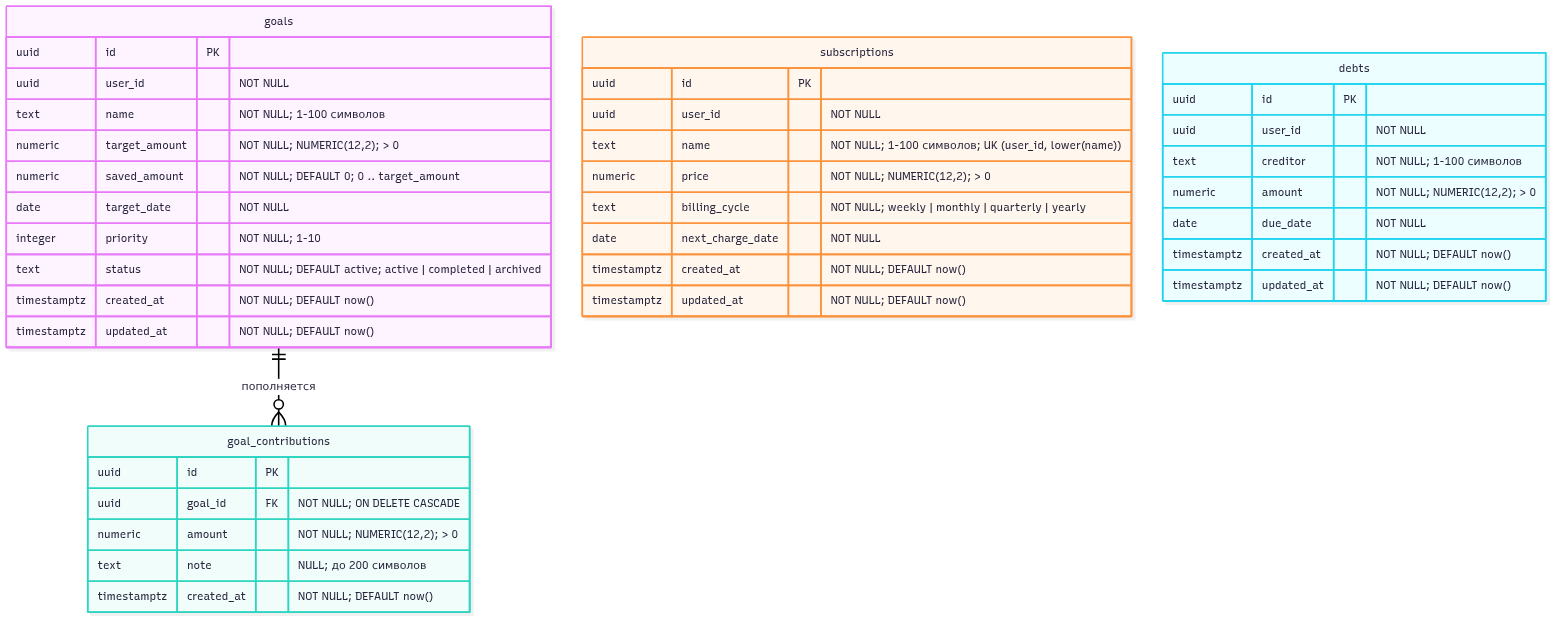
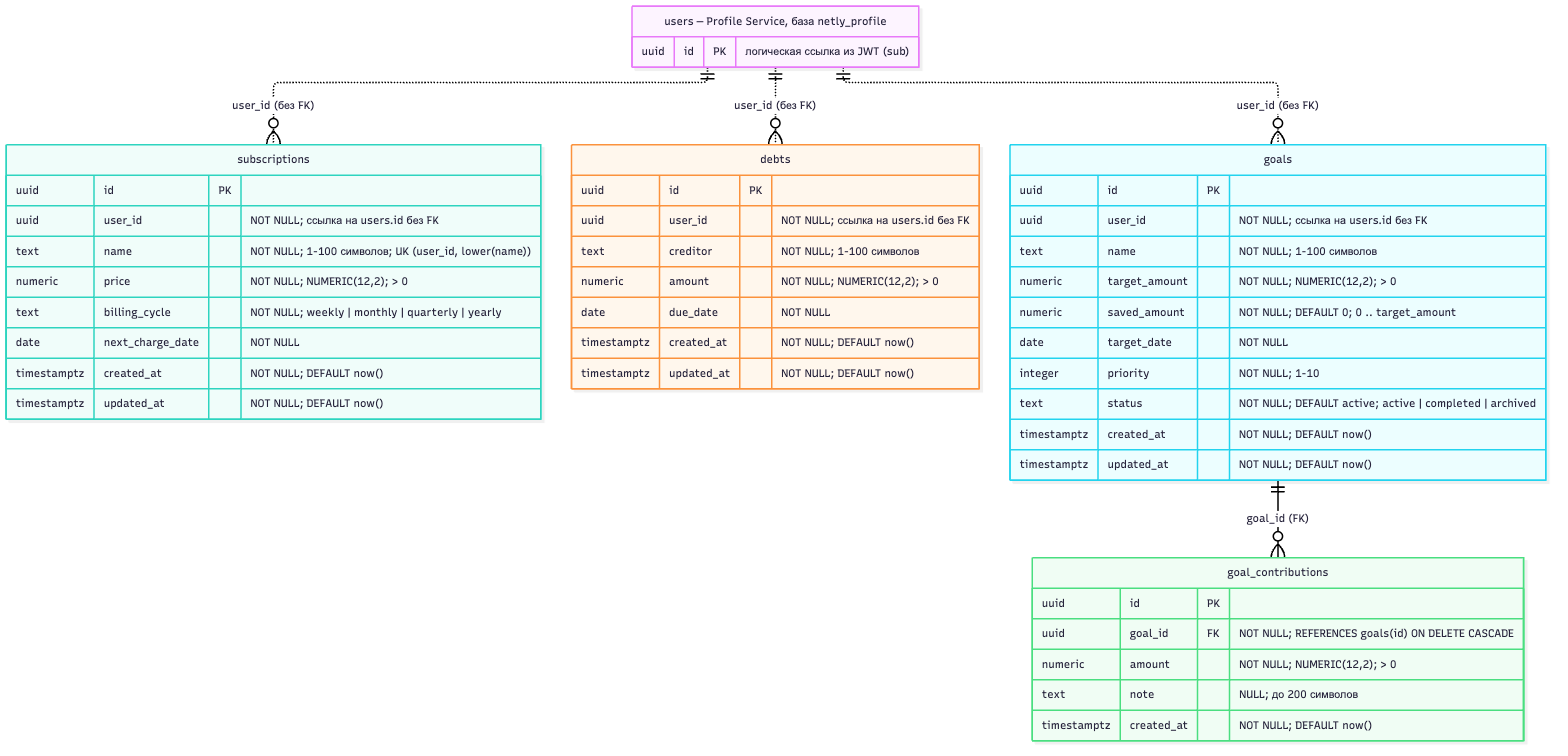
docs(budget): show user references in the ER diagram
Add users from Profile Service as an external entity and draw its links
to subscriptions, debts and goals as dashed lines: user_id is a logical
reference from the signed JWT, with no foreign key across databases.
List every relation and how it is enforced in docs/database.md, and note
the cross-service reference in the README.

Changed region(s): [[0.0, 0.0, 1.0, 0.6374], [0.6562, 0.6677, 0.9688, 1.0], [0.0625, 0.607, 0.3125, 1.0]]

diff --git a/docs/database.md b/docs/database.md
@@ -10,11 +10,18 @@
 
 ```mermaid
 erDiagram
-    goals ||--o{ goal_contributions : "пополняется"
+    users ||..o{ subscriptions : "user_id (без FK)"
+    users ||..o{ debts : "user_id (без FK)"
+    users ||..o{ goals : "user_id (без FK)"
+    goals ||--o{ goal_contributions : "goal_id (FK)"
+
+    users["users — Profile Service, база netly_profile"] {
+        uuid id PK "логическая ссылка из JWT (sub)"
+    }
 
     subscriptions {
         uuid id PK
-        uuid user_id "NOT NULL"
+        uuid user_id "NOT NULL; ссылка на users.id без FK"
         text name "NOT NULL; 1-100 символов; UK (user_id, lower(name))"
         numeric price "NOT NULL; NUMERIC(12,2); > 0"
         text billing_cycle "NOT NULL; weekly | monthly | quarterly | yearly"
@@ -25,7 +32,7 @@ erDiagram
 
     debts {
         uuid id PK
-        uuid user_id "NOT NULL"
+        uuid user_id "NOT NULL; ссылка на users.id без FK"
         text creditor "NOT NULL; 1-100 символов"
         numeric amount "NOT NULL; NUMERIC(12,2); > 0"
         date due_date "NOT NULL"
@@ -35,7 +42,7 @@ erDiagram
 
     goals {
         uuid id PK
-        uuid user_id "NOT NULL"
+        uuid user_id "NOT NULL; ссылка на users.id без FK"
         text name "NOT NULL; 1-100 символов"
         numeric target_amount "NOT NULL; NUMERIC(12,2); > 0"
         numeric saved_amount "NOT NULL; DEFAULT 0; 0 .. target_amount"
@@ -48,16 +55,25 @@ erDiagram
 
     goal_contributions {
         uuid id PK
-        uuid goal_id FK "NOT NULL; ON DELETE CASCADE"
+        uuid goal_id FK "NOT NULL; REFERENCES goals(id) ON DELETE CASCADE"
         numeric amount "NOT NULL; NUMERIC(12,2); > 0"
         text note "NULL; до 200 символов"
         timestamptz created_at "NOT NULL; DEFAULT now()"
     }
 ```
 
-Связь `goals` → `goal_contributions` — один ко многим: у цели может быть сколько угодно пополнений, каждое пополнение принадлежит ровно одной цели. Остальные таблицы связаны только через `user_id`.
+Связь `goals` → `goal_contributions` — один ко многим: у цели может быть сколько угодно пополнений, каждое пополнение принадлежит ровно одной цели. Это единственный внешний ключ схемы.
 
-`user_id` — идентификатор пользователя из JWT. Сами пользователи хранятся в базе Profile Service (`netly_profile`), а у каждого микросервиса своя база, поэтому внешнего ключа на пользователя нет и быть не может: ссылочную целостность между сервисами обеспечивает подпись токена, а не СУБД.
+`user_id` в `subscriptions`, `debts` и `goals` ссылается на пользователя. Таблица `users` принадлежит Profile Service и хранится в его базе `netly_profile`, а у каждого микросервиса своя база, поэтому на диаграмме `users` — внешняя сущность, а связи с ней нарисованы пунктиром. Внешнего ключа на пользователя нет и быть не может: PostgreSQL не ссылается на таблицы другой базы. `user_id` берётся из поля `sub` подписанного JWT, так что ссылочную целостность между сервисами обеспечивает подпись токена, а не СУБД.
+
+## Связи между таблицами
+
+| Ссылка                        | На что ссылается             | Тип         | Как обеспечивается                                              |
+| ----------------------------- | ---------------------------- | ----------- | --------------------------------------------------------------- |
+| `goal_contributions.goal_id`  | `goals.id`                   | 1:N, FK     | Внешний ключ `goal_contributions_goal_id_fkey`, ON DELETE CASCADE |
+| `subscriptions.user_id`       | `users.id` (Profile Service) | 1:N, без FK | Значение из подписанного JWT; фильтр `user_id` во всех запросах |
+| `debts.user_id`               | `users.id` (Profile Service) | 1:N, без FK | То же                                                           |
+| `goals.user_id`               | `users.id` (Profile Service) | 1:N, без FK | То же                                                           |
 
 ## Таблицы
 

diff --git a/README.md b/README.md
@@ -145,7 +145,7 @@ The contract is valid. The three remaining warnings are expected: no license, a 
 
 ### Database
 
-Budget Service keeps its data in the `netly_budget` PostgreSQL database: `subscriptions`, `debts`, `goals` and `goal_contributions`, with `goals` 1:N `goal_contributions`.
+Budget Service keeps its data in the `netly_budget` PostgreSQL database: `subscriptions`, `debts`, `goals` and `goal_contributions`, with `goals` 1:N `goal_contributions` through a foreign key. Every table carries the owner's `user_id`, a logical reference to `users` in Profile Service's own `netly_profile` database: it comes from the signed JWT, and there is no foreign key across databases.
 
 ![ER diagram](docs/er-diagram.png)
 
